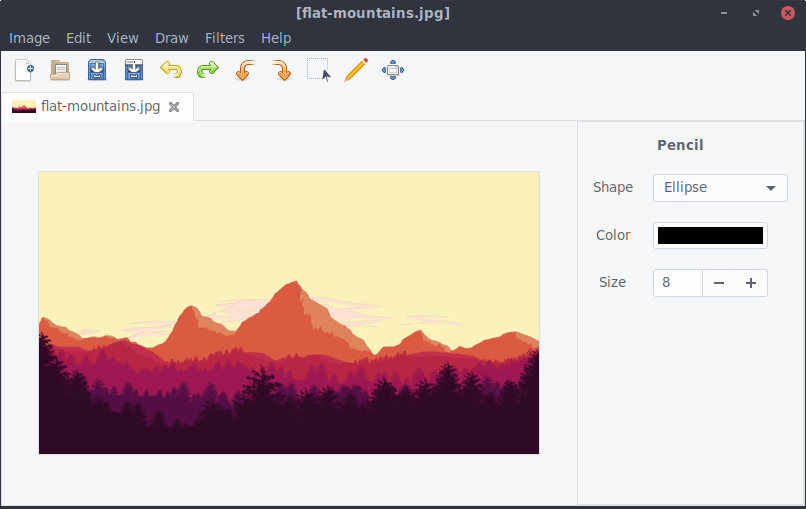
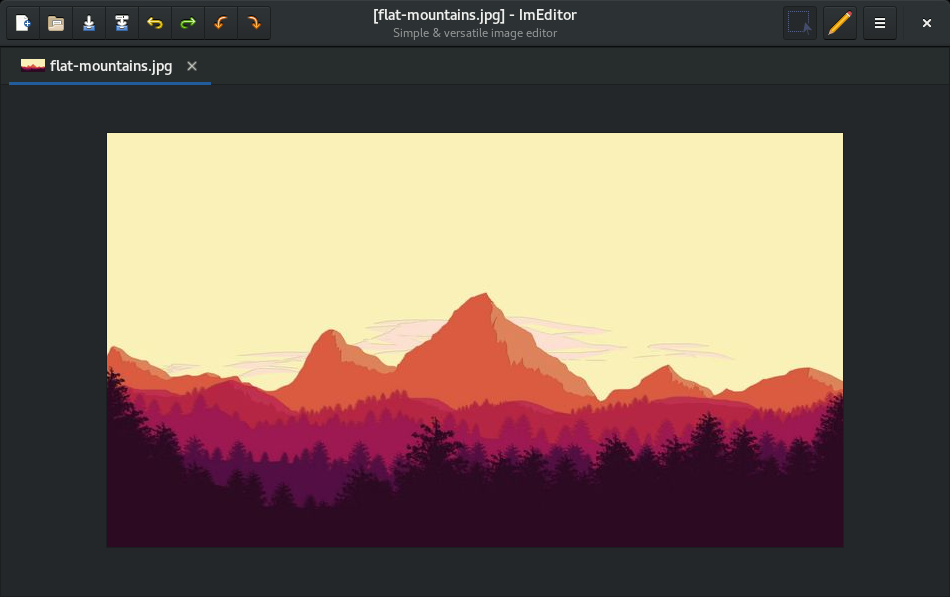
Update main screenshot

diff --git a/css/main.css b/css/main.css
@@ -1,2 +1,2 @@
-html,body,div,span,applet,object,iframe,h1,h2,h3,h4,h5,h6,p,blockquote,pre,a,abbr,acronym,address,big,cite,code,del,dfn,em,img,ins,kbd,q,s,samp,small,strike,strong,sub,sup,tt,var,b,u,i,center,dl,dt,dd,ol,ul,li,fieldset,form,label,legend,table,caption,tbody,tfoot,thead,tr,th,td,article,aside,canvas,details,embed,figure,figcaption,footer,header,hgroup,menu,nav,output,ruby,section,summary,time,mark,audio,video{margin:0;padding:0;border:0;font-size:100%;font:inherit;vertical-align:baseline}article,aside,details,figcaption,figure,footer,header,hgroup,menu,nav,section{display:block}body{line-height:1}ol,ul{list-style:none}blockquote,q{quotes:none}blockquote:before,blockquote:after,q:before,q:after{content:'';content:none}table{border-collapse:collapse;border-spacing:0}body{display:flex;min-height:100vh;flex-direction:column;background-color:#f2f2f2;color:#333;font-family:'Source Sans Pro', sans-serif;line-height:1.5em;font-size:18px}#site-content{flex:1}#header{display:block;text-align:center}#header #header-main{padding:50px 20px;background-color:#f1513c;color:#fff}#header #header-main a{color:#fff}#header #header-main a:hover{color:#f2f2f2}#header #header-screenshot{height:509px;width:806px;margin:-150px auto 0 auto;border-radius:2px;box-shadow:0 3px 6px rgba(0,0,0,0.16),0 3px 6px rgba(0,0,0,0.23);background-image:url("../img/imeditor-screenshot.png")}#header #header-logo{margin-bottom:25px}#header h2{font-size:28px;font-style:italic}#header #header-button{margin-bottom:10px}#header p{margin-bottom:0;text-transform:uppercase;font-style:italic}.content{padding:50px 15%}.content h1{font-size:28px}.content h2{font-size:22px}.content:nth-child(odd){background-color:#333;color:#fff}.idea{display:inline-block;vertical-align:middle;width:150px;margin:20px 35px 0 20px;padding:25px 40px;border-radius:4px;background-color:#fff;box-shadow:0 1px 3px rgba(0,0,0,0.12),0 1px 2px rgba(0,0,0,0.24);transition:all 0.5s ease}.idea i{display:block;margin-bottom:20px;font-size:64px}.idea p{margin-bottom:0;text-transform:uppercase;font-weight:bold}.idea:hover{box-shadow:0 3px 6px rgba(0,0,0,0.16),0 3px 6px rgba(0,0,0,0.23)}#footer{display:flex;justify-content:space-between;align-items:center;padding:30px 15%;background-color:#000;color:#fff}.btn{display:inline-block;padding:15px 25px;border:3px solid #fff;border-radius:50px;text-transform:uppercase;font-weight:bold;font-size:16px;box-shadow:0 1px 3px rgba(0,0,0,0.12),0 1px 2px rgba(0,0,0,0.24);transition:all 0.5s ease;text-decoration:none;cursor:pointer}.btn:hover{background-color:#fff;color:#f1513c !important;box-shadow:0 3px 6px rgba(0,0,0,0.16),0 3px 6px rgba(0,0,0,0.23)}.btn.btn-dark{border-color:#333;color:#333}.btn.btn-dark:hover{background-color:#333;color:#fff !important}h1,h2{margin-bottom:25px;font-family:'PT Sans', sans-serif}p{margin-bottom:15px}a{color:#f1513c}a:hover{color:#ef3c24}b{font-weight:bold}ul{margin-left:40px}ul li{list-style:disc}code{display:inline-block;margin:10px 0;padding:5px;border-radius:4px;background:#000;color:#fff}.align-center{text-align:center}
+html,body,div,span,applet,object,iframe,h1,h2,h3,h4,h5,h6,p,blockquote,pre,a,abbr,acronym,address,big,cite,code,del,dfn,em,img,ins,kbd,q,s,samp,small,strike,strong,sub,sup,tt,var,b,u,i,center,dl,dt,dd,ol,ul,li,fieldset,form,label,legend,table,caption,tbody,tfoot,thead,tr,th,td,article,aside,canvas,details,embed,figure,figcaption,footer,header,hgroup,menu,nav,output,ruby,section,summary,time,mark,audio,video{margin:0;padding:0;border:0;font-size:100%;font:inherit;vertical-align:baseline}article,aside,details,figcaption,figure,footer,header,hgroup,menu,nav,section{display:block}body{line-height:1}ol,ul{list-style:none}blockquote,q{quotes:none}blockquote:before,blockquote:after,q:before,q:after{content:'';content:none}table{border-collapse:collapse;border-spacing:0}body{display:flex;min-height:100vh;flex-direction:column;background-color:#f2f2f2;color:#333;font-family:'Source Sans Pro', sans-serif;line-height:1.5em;font-size:18px}#site-content{flex:1}#header{display:block;text-align:center}#header #header-main{padding:50px 20px;background-color:#f1513c;color:#fff}#header #header-main a{color:#fff}#header #header-main a:hover{color:#f2f2f2}#header #header-screenshot{height:509px;width:806px;margin:-150px auto 0 auto;border-radius:10px;box-shadow:0 3px 6px rgba(0,0,0,0.16),0 3px 6px rgba(0,0,0,0.23);background-image:url("../img/imeditor-screenshot.png");background-size:cover}#header #header-logo{margin-bottom:25px}#header h2{font-size:28px;font-style:italic}#header #header-button{margin-bottom:10px}#header p{margin-bottom:0;text-transform:uppercase;font-style:italic}.content{padding:50px 15%}.content h1{font-size:28px}.content h2{font-size:22px}.content:nth-child(odd){background-color:#333;color:#fff}.idea{display:inline-block;vertical-align:middle;width:150px;margin:20px 35px 0 20px;padding:25px 40px;border-radius:4px;background-color:#fff;box-shadow:0 1px 3px rgba(0,0,0,0.12),0 1px 2px rgba(0,0,0,0.24);transition:all 0.5s ease}.idea i{display:block;margin-bottom:20px;font-size:64px}.idea p{margin-bottom:0;text-transform:uppercase;font-weight:bold}.idea:hover{box-shadow:0 3px 6px rgba(0,0,0,0.16),0 3px 6px rgba(0,0,0,0.23)}#footer{display:flex;justify-content:space-between;align-items:center;padding:30px 15%;background-color:#000;color:#fff}.btn{display:inline-block;padding:15px 25px;border:3px solid #fff;border-radius:50px;text-transform:uppercase;font-weight:bold;font-size:16px;box-shadow:0 1px 3px rgba(0,0,0,0.12),0 1px 2px rgba(0,0,0,0.24);transition:all 0.5s ease;text-decoration:none;cursor:pointer}.btn:hover{background-color:#fff;color:#f1513c !important;box-shadow:0 3px 6px rgba(0,0,0,0.16),0 3px 6px rgba(0,0,0,0.23)}.btn.btn-dark{border-color:#333;color:#333}.btn.btn-dark:hover{background-color:#333;color:#fff !important}h1,h2{margin-bottom:25px;font-family:'PT Sans', sans-serif}p{margin-bottom:15px}a{color:#f1513c}a:hover{color:#ef3c24}b{font-weight:bold}ul{margin-left:40px}ul li{list-style:disc}code{display:inline-block;margin:10px 0;padding:5px;border-radius:4px;background:#000;color:#fff}.align-center{text-align:center}
 /*# sourceMappingURL=main.css.map */

diff --git a/sass/main.scss b/sass/main.scss
@@ -44,9 +44,10 @@ body {
         height: 509px;
         width: 806px;
         margin: -150px auto 0 auto;
-        border-radius: 2px;
+        border-radius: 10px;
         @include shadow(2);
         background-image: url('../img/imeditor-screenshot.png');
+        background-size: cover;
     }
 
     #header-logo {
